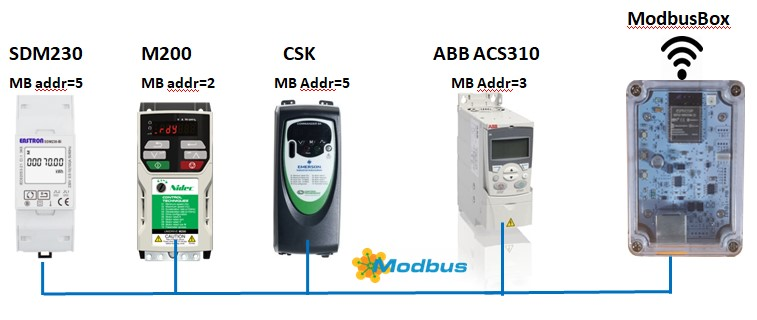
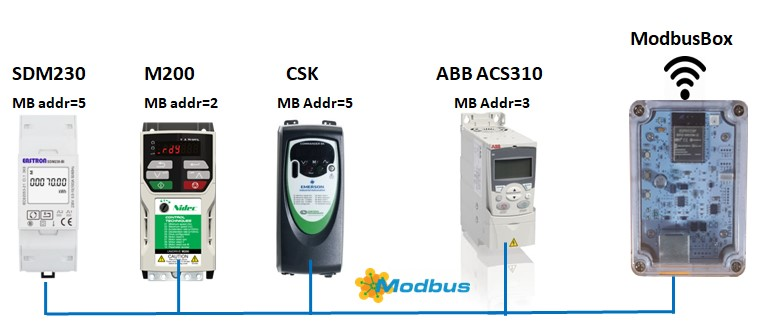
add image SDM230

diff --git a/README.md b/README.md
@@ -175,9 +175,13 @@ The following test is composed by 3 VFD  from different  manufactures and one En
 
 **Unidrive M200** : [LINK](https://acim.nidec.com/drives/control-techniques/-/media/controltechniques/files/step-by-step-guides/unidrive-m200-control-user-guide.ashx)
 
+------
+
+### ModbusBox  example with only one slave (SDM230).
+
+This is a test with only one slave.
 
 
-This is a test
 
 
 
